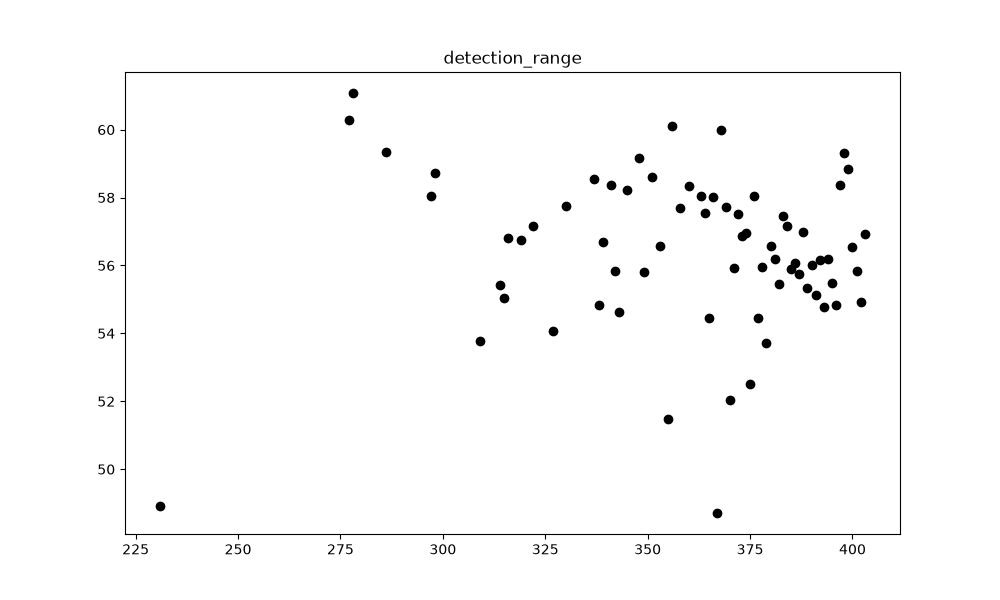
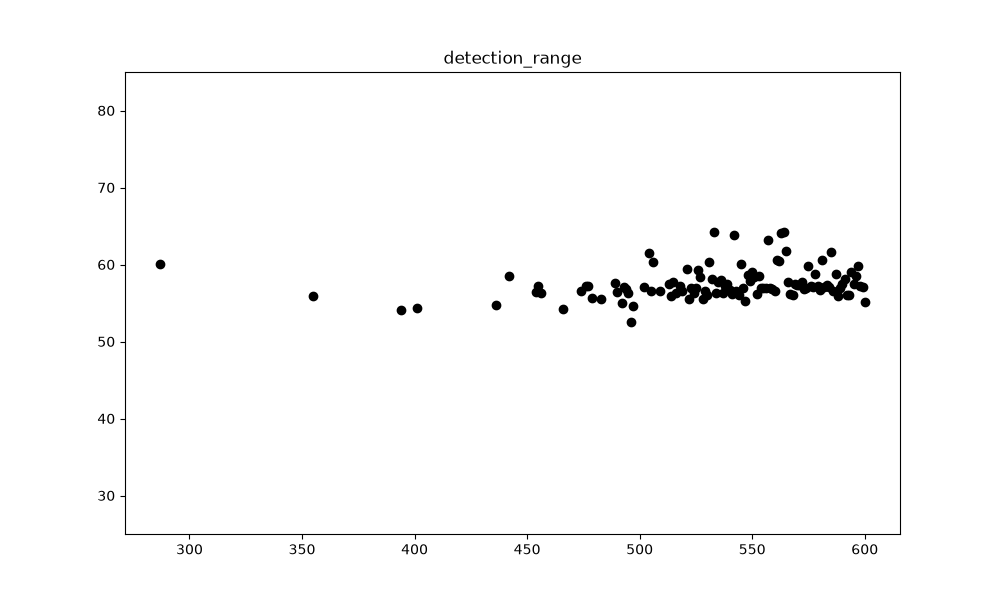
パラメータ調整

diff --git a/base_code/main_no_drive.py b/base_code/main_no_drive.py
@@ -17,11 +17,11 @@ FOOD_RADIUS = 4
 FOOD_EAT_RADIUS = 15
 REMAINING_INDIVIDUALS = 10
 REPRODUCTION_DISTANCE = 5 #繁殖できる2個体の距離の最大値
-REPRODUCTION_COOLDOWN = 30 #各個体の繁殖クールダウンフレーム
+REPRODUCTION_COOLDOWN = 45 #各個体の繁殖クールダウンフレーム
 
 # 気温変化の設定
-HOT_FRAMES = 300
-COLD_FRAMES = 300
+HOT_FRAMES = 500
+COLD_FRAMES = 500
 HOT_STAMINA_MULTIPLIER = 1.5
 COLD_STAMINA_MULTIPLIER = 1.0
 
@@ -70,18 +70,21 @@ def display_genes(org_list):
 
     plt.figure(figsize=(10, 6))
     plt.scatter([org.org_id for org in org_list], stamina_values, color="black", marker="o")
+    plt.ylim(80, 150)
     plt.title("Stamina")
     plt.savefig("stamina.png")
     plt.close()
 
     plt.figure(figsize=(10, 6))
     plt.scatter([org.org_id for org in org_list], detection_range_values, color="black", marker="o")
+    plt.ylim(25, 85)
     plt.title("detection_range")
     plt.savefig("detection.png")
     plt.close()
 
     plt.figure(figsize=(10, 6))
     plt.scatter([org.org_id for org in org_list], speed_values, color="black", marker="o")
+    plt.ylim(0, 4)
     plt.title("speed")
     plt.savefig("speed.png")
     plt.close()
@@ -94,13 +97,15 @@ def display_population_graph(population_history):
     plt.plot(frames, populations, color="black")
 
     #環境が切り替わるフレーム
-    plt.axvline(x=300, color="orange", linestyle="--", label="Enviroment change")
-    plt.axvline(x=600, color="blue", linestyle="--", label="Enviroment change")
+    plt.axvline(x=500, color="orange", linestyle="--", label="Enviroment change")
+    plt.axvline(x=1000, color="blue", linestyle="--", label="Enviroment change")
+    plt.axvline(x=1500, color="orange", linestyle="--", label="Enviroment change")
+    plt.axvline(x=2000, color="blue", linestyle="--", label="Enviroment change")
 
     plt.title("Population over Time")
     plt.xlabel("Frame")
     plt.ylabel("Number of Living Organisms")
-    plt.xlim(0, 900)
+    plt.xlim(0, 2000)
     plt.grid(True)
     plt.legend()
     plt.tight_layout()
@@ -114,7 +119,7 @@ def display_population_graph(population_history):
 def main():
     width, height = 500, 500
     flame_count = 0
-    max_flame = 900
+    max_flame = 2000
     population_history = []
     gender = [1, 2] # 1:オス, 2:メス
     if VISUALIZE:

diff --git a/base_code/model/organism.py b/base_code/model/organism.py
@@ -9,8 +9,8 @@ RANGE_OF_DIRECTIONS = [0, 360]
 ORGANISM_COLORS = ['#FFA5CC', '#A0D4FF']
 
 #体力の定数(min, max)
-STAMINA_MIN = 85
-STAMINA_MAX = 135
+STAMINA_MIN = 90
+STAMINA_MAX = 140
 
 #移動速度の最大最小値
 SPEED_MIN = 1
@@ -42,14 +42,11 @@ class Organism:
         #個体の初期位置をランダムに設定
         self.position = np.array([random.uniform(0, width), random.uniform(0, height)])
         if initial_genes is None:
-            #体力遺伝子の生成と移動速度遺伝子と餌感知範囲遺伝子を生成するところ
+            #体力遺伝子の生成と移動速度遺伝子と餌感知範囲遺伝子と暑さへの耐性遺伝子を生成
             self.genes = {"stamina": random.uniform(STAMINA_MIN, STAMINA_MAX),
                         "detection_range": random.uniform(RANGE_FOOD_DETECTION_MIN, RANGE_FOOD_DETECTION_MAX),
                         "speed": random.uniform(SPEED_MIN, SPEED_MAX),
-                        "heat_tolerance": random.uniform(
-                            HEAT_TOLERANCE_MIN,
-                            HEAT_TOLERANCE_MAX
-                        ),}
+                        "heat_tolerance": random.uniform(HEAT_TOLERANCE_MIN,HEAT_TOLERANCE_MAX),}
         else:
             self.genes = dict(initial_genes)  # 遺伝子をコピーして保持
         self.stamina = self.genes["stamina"]

diff --git a/base_code/main.py b/base_code/main.py
@@ -70,18 +70,21 @@ def display_genes(org_list):
 
     plt.figure(figsize=(10, 6))
     plt.scatter([org.org_id for org in org_list], stamina_values, color="black", marker="o")
+    plt.ylim(80, 150)
     plt.title("Stamina")
     plt.savefig("stamina.png")
     plt.close()
 
     plt.figure(figsize=(10, 6))
     plt.scatter([org.org_id for org in org_list], detection_range_values, color="black", marker="o")
+    plt.ylim(25, 85)
     plt.title("detection_range")
     plt.savefig("detection.png")
     plt.close()
 
     plt.figure(figsize=(10, 6))
     plt.scatter([org.org_id for org in org_list], speed_values, color="black", marker="o")
+    plt.ylim(0, 4)
     plt.title("speed")
     plt.savefig("speed.png")
     plt.close()
